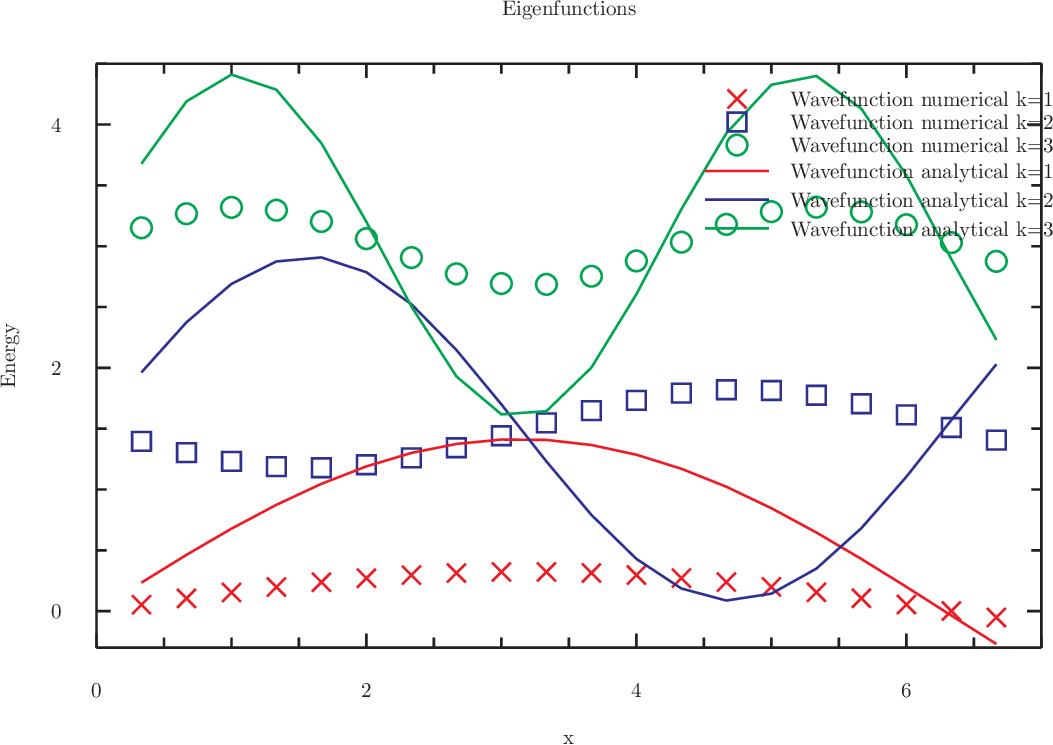
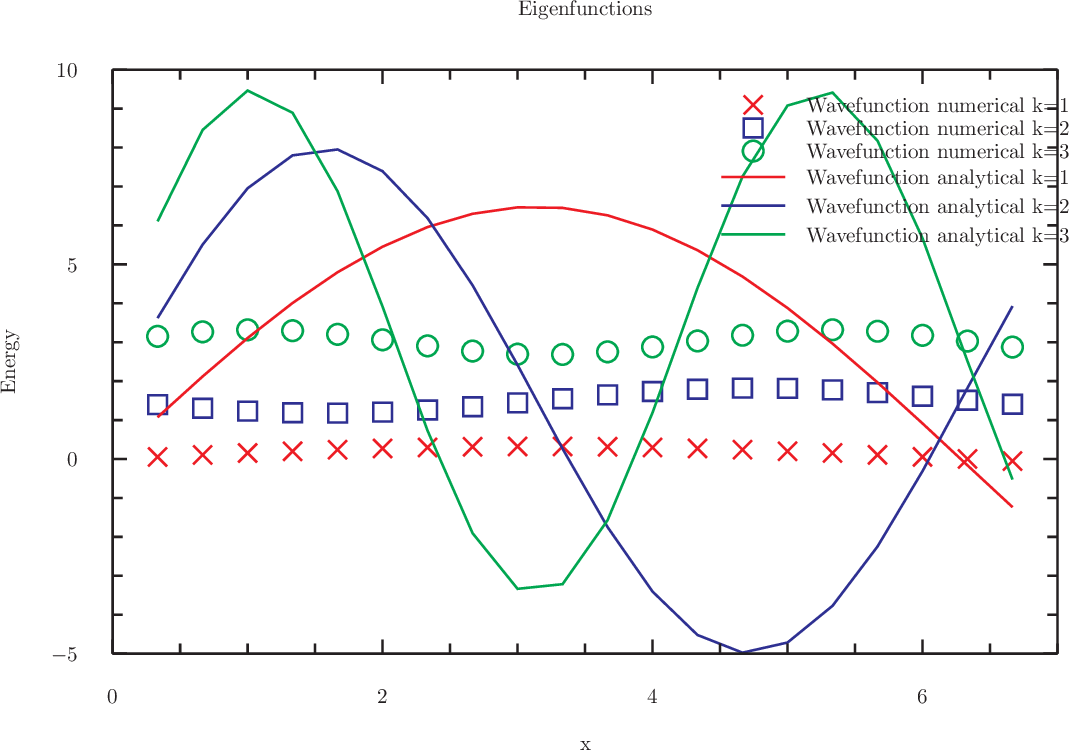
Initial commit

diff --git a/homework/MatrixDiagonalization/main.c b/homework/MatrixDiagonalization/main.c
@@ -153,7 +153,7 @@ printf("\n\n");
 printf("#index1: numerical vs analytical\n");
  	for(int i=0;i<N;i++){
 	double k=(i+1.0)/(n+1);
-	printf("%6g %6g %6g %6g %6g %6g %6g\n",k, gsl_matrix_get(V_h,i,1), gsl_matrix_get(V_h,i,2)+1.5, gsl_matrix_get(V_h,i,3)+3, sqrt(2)*sin(k/2),sqrt(2)*sin(2*k/2)+1.5,sqrt(2)*sin(3*k/2)+3);
+	printf("%6g %6g %6g %6g %6g %6g %6g\n",k, gsl_matrix_get(V_h,i,1), gsl_matrix_get(V_h,i,2)+1.5, gsl_matrix_get(V_h,i,3)+3, sqrt(2/s)*sin(k/2),sqrt(2/s)*sin(2*k/2)+1.5,sqrt(2/s)*sin(3*k/2)+3);
 	}
 printf("\n\n");
 
